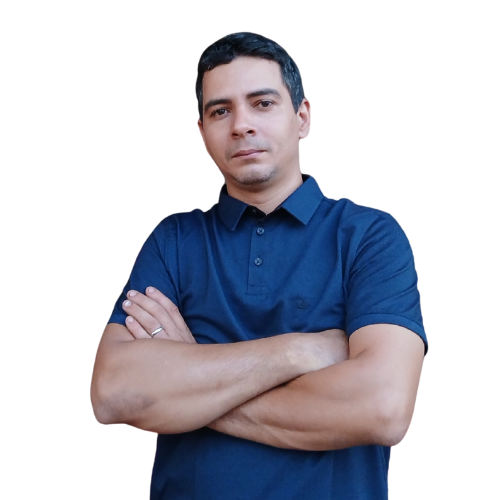
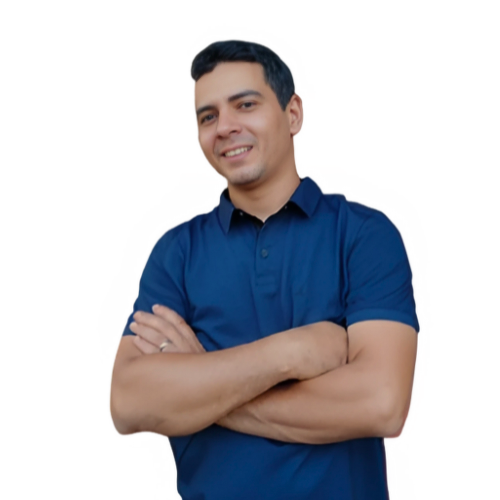
troca um projeto da secao web

Changed region(s): [[0.18, 0.06, 0.87, 1.0], [0.57, 0.54, 0.63, 0.6], [0.63, 0.99, 0.66, 1.0]]

diff --git a/index.html b/index.html
@@ -76,12 +76,12 @@
                     </a>
 
                     <div class="caixa-botoes-rede">
-                        <a class="botao-redes botao-link" href="https://www.linkedin.com/in/marcelo-guima-dev/
+                        <a class="botao-redes" href="https://www.linkedin.com/in/marcelo-guima-dev/
 
 " target="_blank">
                             <i class="fa-brands fa-linkedin"></i>
                         </a>
-                        <a class="botao-redes botao-link" href="https://github.com/marceloguima" target="_blank">
+                        <a class="botao-redes" href="https://github.com/marceloguima" target="_blank">
                             <i class="fa-brands fa-square-github"></i>
                         </a>
                     </div>
@@ -252,22 +252,23 @@
                 </div>
 
                 <div class="card">
-                    <img src="./images/lista.png" alt="Imagem do app de lista de tarefas" />
-                    <h3>Lista de Compras Inteligente</h3>
+                    <img src="./images/imagem-tecnobooks.png" alt="Imagem do site do Tecnobboks" />
+                    <h3>Tecnolivro(Curso Alura)</h3>
                     <div class="paragrafo">
                         <p>
-                            Crie sua lista de compras e adicione os preços durante sua ida ao mercado. Tenha <b>controle
-                                total do orçamento</b> e
-                            acompanhe o custo final em tempo real.
+                            E-commerce de livros utilizando React. Desenvolvido para demonstrar <b>componentização</b> e
+                            gerenciamento de estado em uma
+                            aplicação front-end.
                         </p>
                     </div>
                     <div class="tecs-utilizada">
                         <p>HTML5</p>
                         <p>CSS3</p>
                         <p>JS</p>
+                        <p>React</p>
                     </div>
                     <div class="buttons">
-                        <a class="buttons-card btn-projeto botao-link" href="#">
+                        <a class="buttons-card btn-projeto botao-link" href="impressionante-torta-c1bc8b.netlify.app">
                             <i class="fa-solid fa-eye"></i>Projeto
                         </a>
                         <a class="buttons-card btn-codigo botao-link" href="#">
@@ -455,7 +456,7 @@
             <!-- <div class="titulo-secao">
                 </div> -->
             <div class="caixa-imagem-sobre">
-                <img src="./images/foto-camisa-azul-sorrindo.png" alt="minha imagem" />
+                <img src="./images/foto-camisa-azul.png" alt="minha imagem" />
             </div>
             <div class="texto-sobre">
                 <h2>Sobre <span>mim</span></h2>
@@ -484,19 +485,21 @@
 
         <footer>
             <div class="caixa-botoes-rede">
-                <a class="botao-redes botao-link" href="
+                <a class="botao-redes " href="
                 https://www.linkedin.com/in/marcelo-guima-dev/
 
 " target="_blank">
                     <i class="fa-brands fa-linkedin"></i>
                 </a>
-                <a class="botao-redes botao-link" href="https://github.com/marceloguima" target="_blank">
+                <a class="botao-redes" href="https://github.com/marceloguima" target="_blank">
                     <i class="fa-brands fa-square-github"></i>
                 </a>
-                <a class="botao-redes botao-link" href="mailto:marceloguimaraesdev@gmail.com?subject=Contato%20Profissional&
+                <a class="botao-redes" href="mailto:marceloguimaraesdev@gmail.com?subject=Contato%20Profissional&
 body=Olá%2C%20vi%20seu%20portfólio%20e%20gostaria%20de%20conversar." target="_blank">
                     <i class="fa-solid fa-square-envelope"></i>
                 </a>
+
+                <p class="email">marcelo-guimaraes-dev@gmail.com</p>
             </div>
             <p>&copy; 2025 Marcelo Guimarães. Todos os direitos reservados.</p>
         </footer>
@@ -509,5 +512,3 @@ body=Olá%2C%20vi%20seu%20portfólio%20e%20gostaria%20de%20conversar." target="_
 </body>
 
 </html>
-
-<!-- próximos passos verificar mau funcionamento na ativação do link na seção de projetos web, melhorar o hero em telas grandes, refazer uma logo e verificar o porque do card prototipo estar um maior que o outro -->

diff --git a/css/global.css b/css/global.css
@@ -44,7 +44,7 @@ body {
     padding: 10px;
     border-radius: 10px;
     border: none;
-    font-size: 1.2rem;
+    font-size: 1rem;
     font-weight: 500 !important;
     cursor: pointer;
     transition: ease-in 0.2s;
@@ -59,6 +59,7 @@ body {
     transform: translateY(3px);
     box-shadow: 1px 1px 4px var(--quarta-cor);
 }
+
 
 /* --------------------------------------------------------------- */
 

diff --git a/css/hero.css b/css/hero.css
@@ -90,8 +90,8 @@
 }
 
 .botao-redes {
-    width: 40px;
-    height: 40px;
+    width: 30px;
+    height: 30px;
     background: transparent;
     display: flex;
     align-items: center;
@@ -102,7 +102,7 @@
 .botao-redes  i {
     border-radius: 10px;
     border: none;
-    font-size: 3rem;
+    font-size: 2rem;
     color: var(--quarta-cor);
 }
 

diff --git a/css/header.css b/css/header.css
@@ -28,6 +28,7 @@ nav {
     max-width: 400px;
     height: 100vh;
     background-color: var(--primeira-cor);
+    border-right: solid 3px var(--cor-borda-card);
     display: flex;
     flex-direction: column;
     justify-content: center;

diff --git a/css/projetos-web.css b/css/projetos-web.css
@@ -60,6 +60,7 @@
     display: flex;
     justify-content: space-between;
     margin-bottom: 10px;
+    gap: 5px;
 }
 
 .tecs-utilizada p {

diff --git a/css/rodape.css b/css/rodape.css
@@ -12,5 +12,9 @@ footer{
 }
 
 footer p{
-font-size: 1.2rem;
+font-size: 1rem;
+}
+
+.email{
+    font-size: .9rem;
 }

diff --git a/css/prototipos.css b/css/prototipos.css
@@ -66,6 +66,7 @@
 .card_prototipo p {
     text-align: justify;
     hyphens: auto;
+    
 }
 
 .content h3 {
